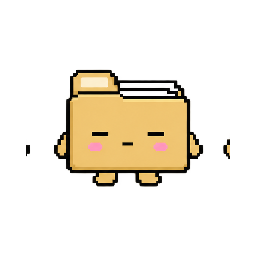
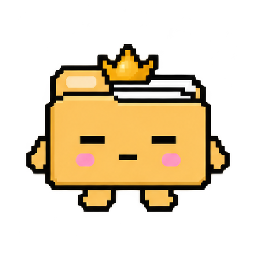
Give File Master a crown and a Paper Girl companion

Changed region(s): [[0.0938, 0.1562, 0.9062, 0.8438]]

diff --git a/desktop-art/file-master/prompt-partner-20261011.md b/desktop-art/file-master/prompt-partner-20261011.md
@@ -1,0 +1,23 @@
+# File Master companion revision
+
+Prepared with the built-in image generation tool by OpenAI Codex (GPT-6), 2026-10-11. Desktop artwork draft for Astra. Preserves existing runtime size; no website changes.
+
+## Exact generation prompt
+
+Use case: precise-object-edit.
+Asset type: production transparent pixel-art desktop-pet 3-by-3 nine-mood sprite sheet.
+Image 1 is the existing File Master sheet, the edit target. Image 2 is its idle frame for shape and face reference.
+Primary request: make File Master look more like a master, more commanding and intimidating, while remaining a recognizable cute golden manila folder desktop mascot.
+Preserve the squat golden/manila folder body, left folder tab, white stacked papers above the top edge, little golden arms and feet, frontal view and overall proportions from the references. Preserve the reference's small vertical black rectangular eyes with tiny square white highlights (no large round or anime eyes). Add strong stern angled eyebrows and a confident straight mouth in the default idle pose. Add a compact angular dark-gold three-point crown resting on the folder's upper edge, centered so the left folder tab and white papers remain visible. The crown is integral to the same sprite, the same in all nine poses. No cape, weapons, extra objects or new limbs.
+Pixel-art medium: chunky crisp pixel geometry, consistent black outline, simple warm gold colors, limited flat pixel shading. Tiny readable authoritative face; less blush. Overall cute but formidable ruler, suitable for a sprite displayed about 42 pixels high.
+Layout: EXACTLY nine same-size bodies, arranged evenly in an exact 3x3 grid with substantial empty gutters and margins. Uniform scale and registration in every cell, full body and crown visible, no overlap. Read left to right top to bottom: idle stern; blink; happy confident slight smile; curious; worried; sad; sick; alarmed; asleep. Facial changes only, same folder/crown/arms/feet throughout. Only facial expressions, no mood stickers or symbols.
+Critical background: actual transparent alpha everywhere outside each character. Remove the reference's dark rectangular backdrops, warm glows and ambient haze completely. No shadow, no floor, no rectangle or vignette behind any pose. All gaps between poses and margins fully transparent.
+No text of any kind, no labels, no punctuation symbols, no watermark, no checkerboard drawing.
+
+## Exact background cleanup prompt
+
+Use case: background-extraction and production sprite layout correction.
+Edit target is the provided File Master nine-mood sheet. Preserve the pixel-art folder character, face expressions, gold three-point crown, white papers, golden limbs, all pixel details and black outlines. No redesign.
+Remove ALL dark and gold background glow and haze. The ONLY visible pixels should be the nine folder characters including their black outlines and crowns. Every pixel outside each character's actual outline must be truly alpha=0, with NO gray/gold glowing rectangle, no shadow and no ambient halo.
+Correct the production layout: make a SQUARE canvas with EXACTLY 3 rows and EXACTLY 3 columns of EQUAL-SIZE cells. Move the nine sprites to the EXACT CENTER of their corresponding cells. Scale every whole sprite uniformly to at most 68% of its cell width and height, with generous fully transparent padding around ALL sides. No character may touch or cross any cell boundary. Identical body/crown scale and aligned pose registration all nine. Preserve existing mood order.
+This is a strictly mechanical background cleanup and recentering. Do not change character design. Fully transparent RGBA background, not a colored/checkerboard depiction. No labels/text/mood symbols.

diff --git a/AGENTS.md b/AGENTS.md
@@ -11,3 +11,5 @@ Pet words: use one name per part of a pet app, as listed in the Cage's [PET-WORD
 Desktop artwork and size sync: OpenAI Codex (GPT-6), 2026-10-11. Read desktop-pet-20261011.json. No sparkles. Keep draft and approved design status explicit.
 
 Desktop appearance revision by OpenAI Codex (GPT-6), 2026-10-11. See desktop-pet-20261011.json; runtime behavior is in astras-pet-apps.
+
+Paired desktop revision by OpenAI Codex (GPT-6), 2026-10-11: Paper Girl and File Master use matching small eyes and travel together. Artwork and companion behavior are recorded in desktop-pet-20261011.json; implementation and tests live in astras-pet-apps.
